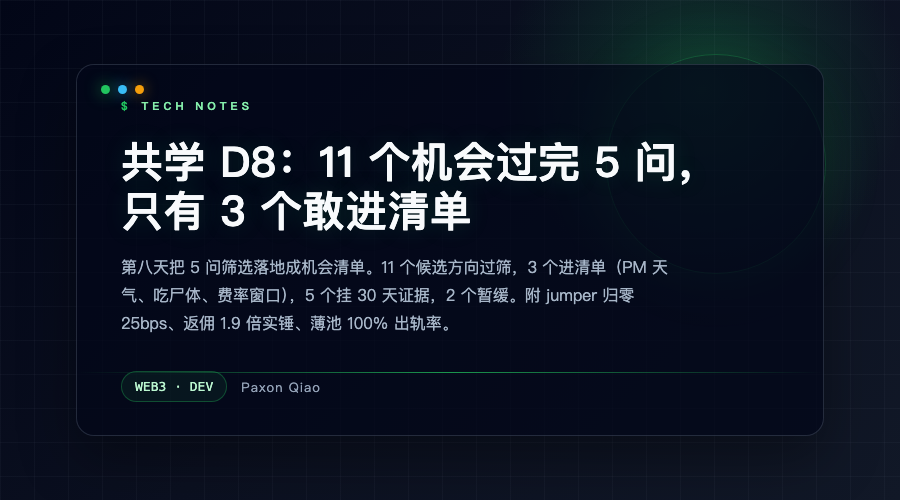
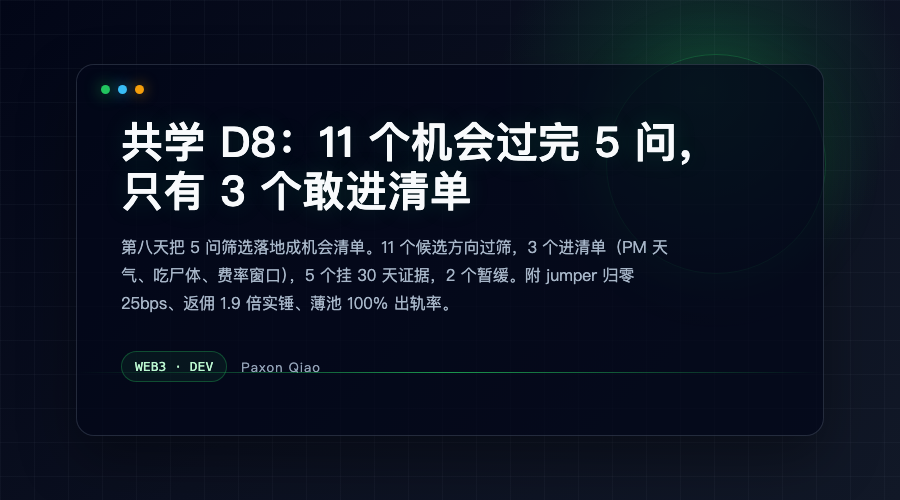
D8公众号正式发布: 共学D8机会清单(media_id 100011547, 链接已归档); list版补共学介绍块+模板去冒号破折号; status published; SOP表补行

Changed region(s): [[0.1244, 0.18, 0.7778, 0.66], [0.1244, 0.72, 0.3733, 0.81]]

diff --git a/social/wechat/2026-08-12-d8-opportunity-list.html b/social/wechat/2026-08-12-d8-opportunity-list.html
@@ -39,7 +39,7 @@ body{width:900px;height:500px;overflow:hidden;font-family:'SF Pro Text',-apple-s
   <div class="grid"></div><div class="glow"></div>
   <section class="panel">
     <div class="toolbar"><span class="dot"></span><span class="dot"></span><span class="dot"></span></div>
-    <div class="tag"><span class="prompt">$</span>TECH NOTES</div>
+
     <h1 class="title">共学 D8：11 个机会过完 5 问，只有 3 个敢进清单</h1>
     <p class="subtitle">第八天把 5 问筛选落地成机会清单。11 个候选方向过筛，3 个进清单（PM 天气、吃尸体、费率窗口），5 个挂 30 天证据，2 个暂缓。附 jumper 归零 25bps、返佣 1.9 倍实锤、薄池 100% 出轨率。</p>
     <div class="meta"><span class="chip">WEB3 · DEV</span><span class="author">Paxon Qiao</span></div>
@@ -176,6 +176,10 @@ body{width:900px;height:500px;overflow:hidden;font-family:'SF Pro Text',-apple-s
 <tr><td style="width:34px;padding:8px 0 8px 4px;vertical-align:top;text-align:center;background:#fff;"><span style="display:inline-block;min-width:22px;height:22px;padding:0 4px;background:#2c2c2c;color:#fff;border-radius:999px;text-align:center;line-height:22px;font-size:12px;font-weight:bold;">2</span></td><td style="padding:8px 12px 8px 4px;vertical-align:top;background:#fff;color:#555;font-size:15px;line-height:1.8;">3 个进清单候选的监控基建盘点，吃尸体和费率窗口共用一套</td></tr>
 <tr><td style="width:34px;padding:8px 0 8px 4px;vertical-align:top;text-align:center;background:#f3f4f6;"><span style="display:inline-block;min-width:22px;height:22px;padding:0 4px;background:#2c2c2c;color:#fff;border-radius:999px;text-align:center;line-height:22px;font-size:12px;font-weight:bold;">3</span></td><td style="padding:8px 12px 8px 4px;vertical-align:top;background:#f3f4f6;color:#555;font-size:15px;line-height:1.8;">低容量量化接雷达异常值过滤，薄池观察线继续跑</td></tr>
 </table></section>
+
+<h2 style="font-size: 19px; font-weight: 800; color: #1a1a1a; margin: 2.3em 0 1em; padding: 0 0 10px 14px; border-left: 5px solid #2c2c2c; border-bottom: 1px solid #e5e7eb; letter-spacing: 1px; line-height:1.45;">关于本次共学</h2>
+
+<p style="margin: 0 0 1.25em; color: #555; font-size: 15px; line-height: 1.95; letter-spacing: 0.08em; word-spacing: 0.05em; text-align: justify; text-indent: 2em;">本系列来自「链上套利残酷共学」，由 Bruce Xu 发起的 21 天实践型共学（2026.08.05-08.26），692 位伙伴围绕机会发现、成本验证、策略构建、信号监控与执行复盘，用真实证据逼近答案，不做只听概念不落地的学习。活动详情见 intensivecolearn.ing/programs/b43d2e97-ed88-4ca3-b12f-7ef672b01205</p>
 
 
 

diff --git a/social/wechat/2026-08-12-d8-opportunity-list.cover.html b/social/wechat/2026-08-12-d8-opportunity-list.cover.html
@@ -28,7 +28,7 @@ body{width:900px;height:500px;overflow:hidden;font-family:'SF Pro Text',-apple-s
   <div class="grid"></div><div class="glow"></div>
   <section class="panel">
     <div class="toolbar"><span class="dot"></span><span class="dot"></span><span class="dot"></span></div>
-    <div class="tag"><span class="prompt">$</span>TECH NOTES</div>
+
     <h1 class="title">共学 D8：11 个机会过完 5 问，只有 3 个敢进清单</h1>
     <p class="subtitle">第八天把 5 问筛选落地成机会清单。11 个候选方向过筛，3 个进清单（PM 天气、吃尸体、费率窗口），5 个挂 30 天证据，2 个暂缓。附 jumper 归零 25bps、返佣 1.9 倍实锤、薄池 100% 出轨率。</p>
     <div class="meta"><span class="chip">WEB3 · DEV</span><span class="author">Paxon Qiao</span></div>

diff --git a/daily/2026-08-14.md b/daily/2026-08-14.md
@@ -41,3 +41,11 @@
 - **Bruce Xu 官方工具文 digest**：LI.FI 100RPM+25bps（integrator 归零已实测）/ Binance Web3 免费四类 / Taoli $5k / 私有 RPC 三件套 / 安全五规则 / 金句「套利关键是发现机会不是基建」；对照我们现有栈：私有 RPC + 独立 Signer 是执行前必修
 - **HaasOnline scam bot 反诈拆解**：`notes/haasonline-scam-bot-case-20260814.md`——披官方外衣要求导入私钥；8-11 官方辟谣 / 8-13 受害者 4.1 BNB 被转空；识别五连问进反诈清单；归因边界=陈述≠证据需链上核验
 - Obsidian：04 工具与协议（工具栈）+ 06 失败复盘（scam）已同步
+
+## 追加：D8 公众号文章正式发布 ✅
+
+- **《共学 D8：11 个机会过完 5 问，只有 3 个敢进清单》** 已发布：https://mp.weixin.qq.com/s/pqogQ-N7Cg7qvyH5KBrmbQ（08-14 17:12 发布，web 抓取验证标题/正文/封面完整）
+- 定稿 = `social/wechat/2026-08-12-d8-opportunity-list.md`（合规 PASS；shortlist 竞争版 FAIL 41 处弃用，草稿 100011540 需后台删）
+- 流程：补「关于本次共学」介绍块（模板破折号/冒号已修）→ 合规复查 PASS → cookie 过期重登（login+ship 一条龙）→ media_id **100011547**（旧 100011519 自动删）
+- 人数核实：活动页 curl 显示「已报名伙伴 692 人」（592 是展开剩余数），模板数字未过时
+- 状态：status.jsonl published（100011547 + 正式链接）；公众号 D1-D8 + 流程篇全部发布 ✅

diff --git a/templates/colearn-intro-block.md b/templates/colearn-intro-block.md
@@ -5,7 +5,7 @@
 
 ## 关于本次共学
 
-本系列来自「链上套利残酷共学」——由 Bruce Xu 发起的 21 天实践型共学（2026.08.05-08.26），692 位伙伴围绕机会发现、成本验证、策略构建、信号监控与执行复盘，用真实证据逼近答案，不做只听概念不落地的学习。活动详情：intensivecolearn.ing/programs/b43d2e97-ed88-4ca3-b12f-7ef672b01205
+本系列来自「链上套利残酷共学」，由 Bruce Xu 发起的 21 天实践型共学（2026.08.05-08.26），692 位伙伴围绕机会发现、成本验证、策略构建、信号监控与执行复盘，用真实证据逼近答案，不做只听概念不落地的学习。活动详情见 intensivecolearn.ing/programs/b43d2e97-ed88-4ca3-b12f-7ef672b01205
 
 ## 注意事项
 

diff --git a/templates/wechat-publish-sop.md b/templates/wechat-publish-sop.md
@@ -57,6 +57,7 @@
 | D6 跨链报价对比 | 100011465（已发布） | 08-12 |
 | 流程篇 | 100011472（草稿待发布） | 08-12 |
 | D7 gross vs net | 100011499（已发布 08-13，https://mp.weixin.qq.com/s/4tO3pp2KLtWs4JEx5tGNDQ） | 08-13 |
+| D8 机会清单 | 100011547（已发布 08-14，https://mp.weixin.qq.com/s/pqogQ-N7Cg7qvyH5KBrmbQ；弃用版 shortlist 草稿 100011540 已提醒后台删） | 08-14 |
 
 ## 常见坑
 
